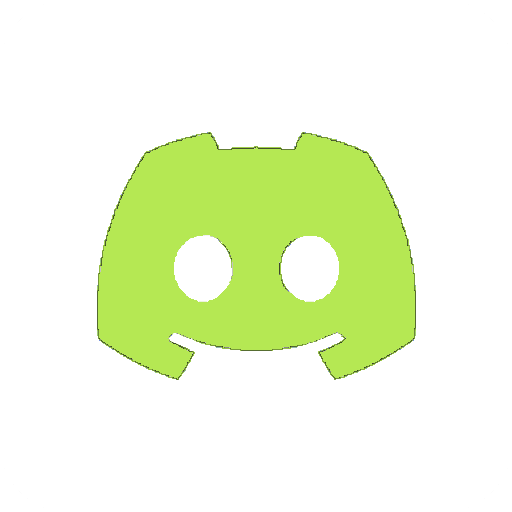
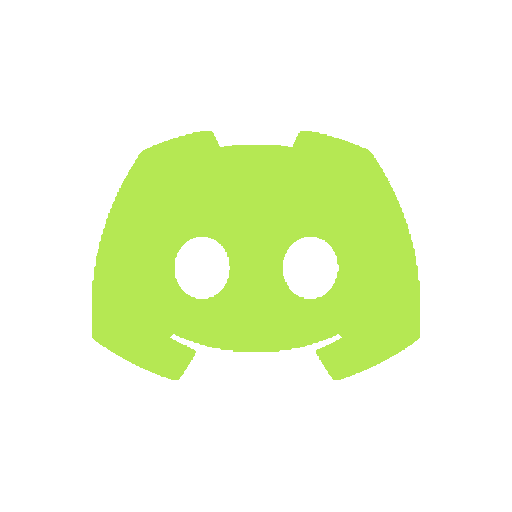
Replaced HTB social with LinkedIn and improved quality of other images

diff --git a/assets/css/style.scss b/assets/css/style.scss
@@ -112,7 +112,7 @@ footer a:hover {
 .links-container {
         display: flex;
         margin-left: auto;
-        margin-right: 5px;
+        margin-right: 15px;
 }
 
 .link-icon {
@@ -139,8 +139,8 @@ footer a:hover {
         box-shadow: 0px 0px 10px #ffffff;
 }
 
-#htb-img:before, #htb-img:hover {
-        box-shadow: 0px 0px 10px #9fef00;
+#linkedin-img:before, #linkedin-img:hover {
+        box-shadow: 0px 0px 10px #0a66c2;
 }
 
 .navbar {
@@ -280,7 +280,7 @@ and (max-width: 480px) {
                 margin-left: 10px;
         }
 
-        #discord-img, #github-img, #htb-img {
+        #discord-img, #github-img, #linkedin-img {
                 width: 2rem;
                 height: 2rem;	
         }
@@ -297,7 +297,11 @@ and (max-width: 480px) {
                 transform: scale(1.6);
         }
 
-        #discord-footer-img, #github-footer-img {
+        #linkedin-footer-img {
+                transform: scale(1.48);
+        }
+
+        #discord-footer-img, #github-footer-img, #linkedin-footer-img {
                 width: 0.9rem;
                 height: 0.9rem;
         }
@@ -351,7 +355,7 @@ and (min-width: 480px) {
                 margin-left: 10px;
         }
 
-        #discord-img, #github-img, #htb-img {
+        #discord-img, #github-img, #linkedin-img {
                 width: 2.2rem;
                 height: 2.2rem;	
         }
@@ -360,7 +364,11 @@ and (min-width: 480px) {
                 transform: scale(1.6);
         }
 
-        #discord-footer-img, #github-footer-img {
+        #linkedin-footer-img {
+                transform: scale(1.48);
+        }
+
+        #discord-footer-img, #github-footer-img, #linkedin-footer-img {
                 width: 1rem;
                 height: 1rem;
         }
@@ -401,16 +409,20 @@ and (min-width: 720px) {
                 margin-left: 30px;
         }
 
-        #discord-img, #github-img, #htb-img {
+        #discord-img, #github-img, #linkedin-img {
                 width: 2.5rem;
                 height: 2.5rem;
         }
 
         #discord-footer-img {
-                transform: scale(1.65);
+                transform: scale(1.6);
         }
 
-        #discord-footer-img, #github-footer-img {
+        #linkedin-footer-img {
+                transform: scale(1.48);
+        }
+
+        #discord-footer-img, #github-footer-img, #linkedin-footer-img {
                 width: 1.2rem;
                 height: 1.2rem;
         }

diff --git a/_layouts/default.html b/_layouts/default.html
@@ -52,8 +52,8 @@
             <a class="link-icon" href="https://github.com/eehs" data-umami-event="GitHub (header)" target="_blank">
               <img id="github-img" src="/assets/images/github.png"></img>
             </a>
-            <a class="link-icon" href="https://app.hackthebox.com/users/486143" data-umami-event="Hack The Box (header)" target="_blank">
-              <img id="htb-img" src="/assets/images/htb.png"></img>
+            <a class="link-icon" href="https://www.linkedin.com/in/benjamin-shee" data-umami-event="LinkedIn (header)" target="_blank">
+              <img id="linkedin-img" src="/assets/images/linkedin.png"></img>
             </a>
           </div>
         </div>
@@ -86,6 +86,11 @@
       <span>
         <a class="link-icon" href="https://github.com/eehs" data-umami-event="GitHub (footer)" target="_blank">
           <img id="github-footer-img" src="/assets/images/github-footer.png"></img>
+        </a>
+      </span>
+      <span>
+        <a class="link-icon" href="https://www.linkedin.com/in/benjamin-shee" data-umami-event="LinkedIn (footer)" target="_blank">
+          <img id="linkedin-footer-img" src="/assets/images/linkedin-footer.png"></img>
         </a>
       </span>
       <span>
